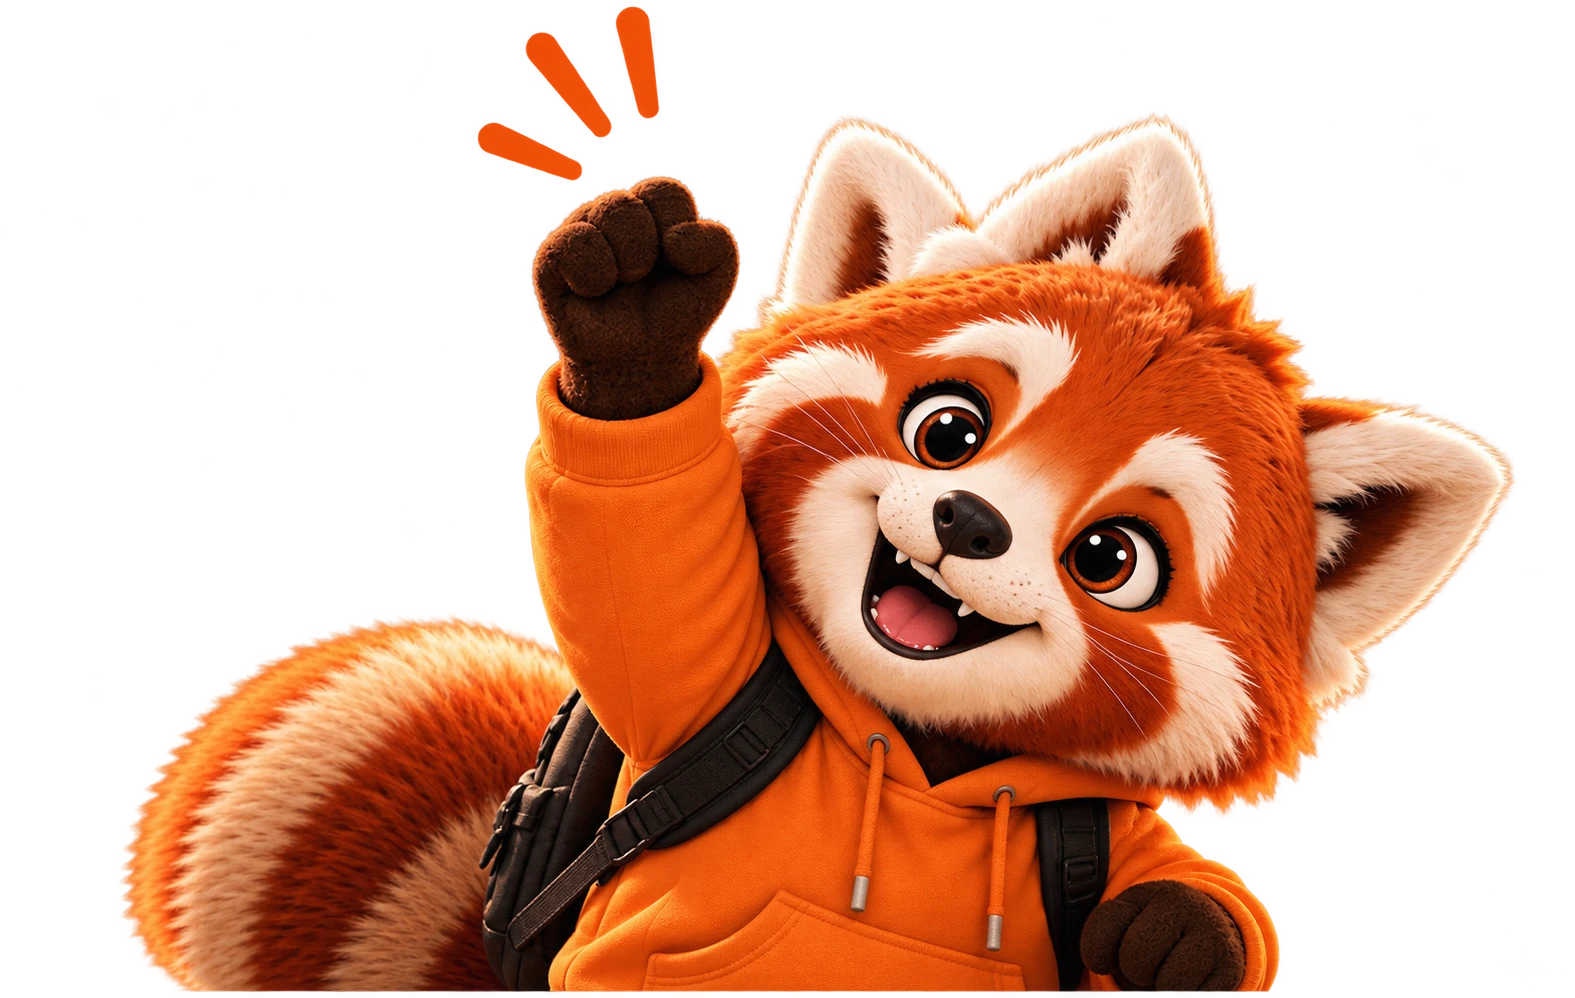
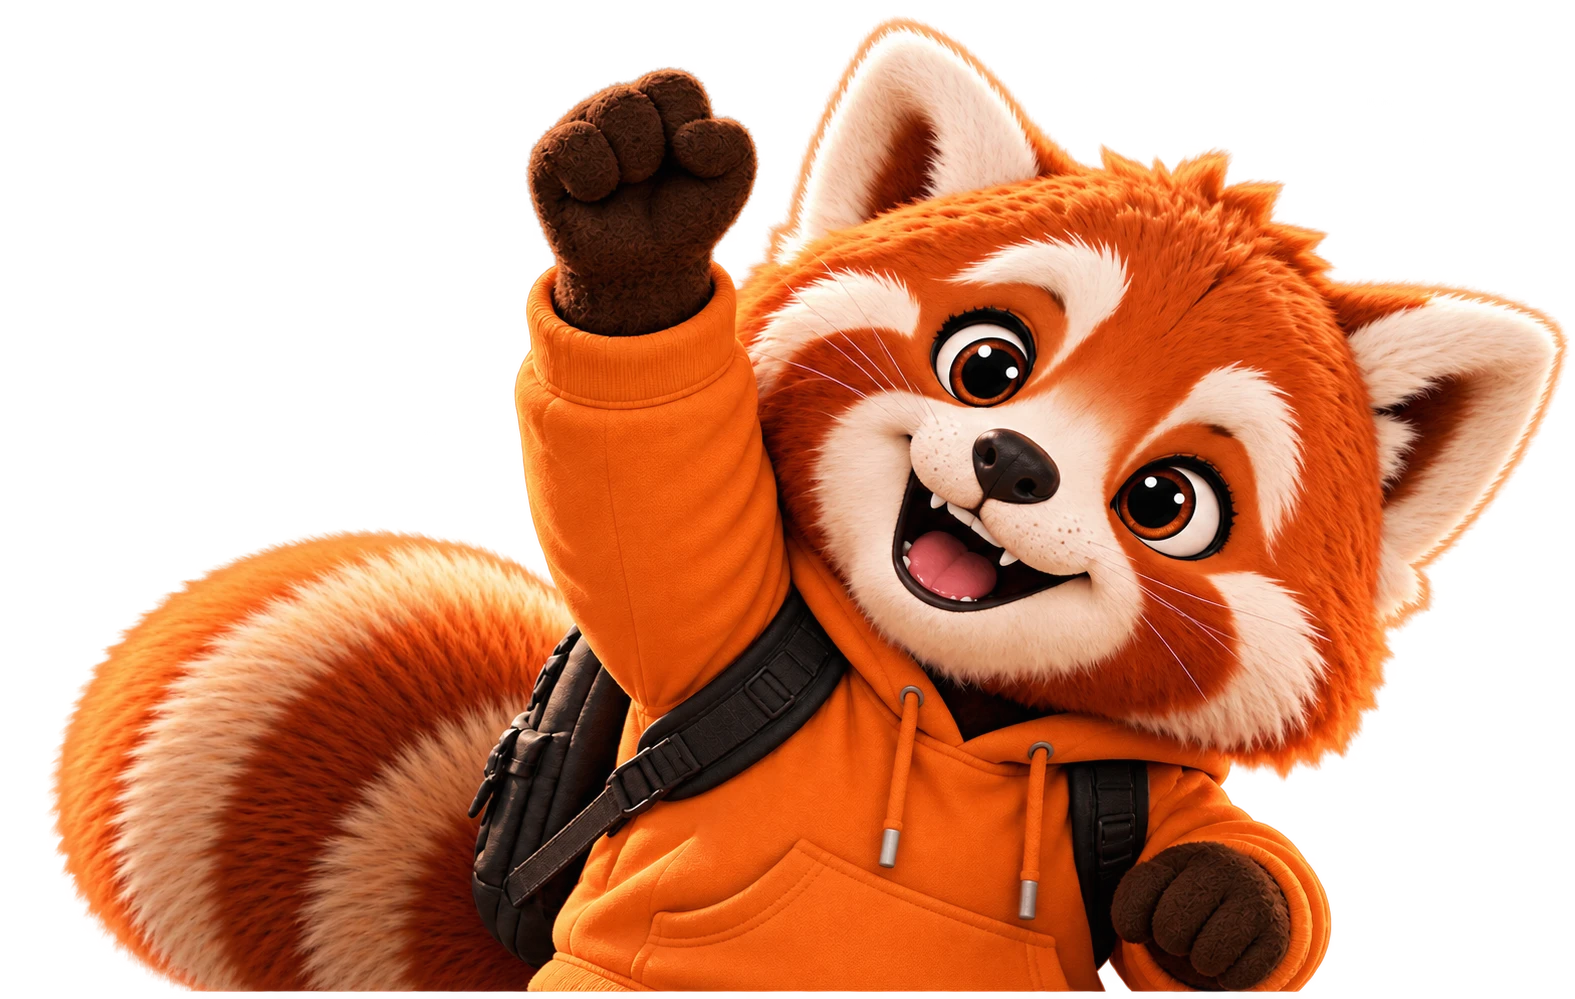
Replace the TOBI render in «Статистика»
assets/tobi/tobi_statistics.webp replaced with the product owner's new
transparent render (1575x999), unmodified; registry height updated.
Placement and the rest of the Statistics screen unchanged.

Claude-Session: https://claude.ai/code/session_01KnKpapXsJupxF9XbuZYwNS

diff --git a/features/tobi/tobiAssets.ts b/features/tobi/tobiAssets.ts
@@ -60,12 +60,12 @@ export const tobiRenders: Partial<Record<TobiState, TobiRender>> = {
     height: 1002,
     placement: { scale: 1 / (0.84 - 0.027), offsetY: 1 - 0.84 },
   },
-  // Product owner's render, unmodified (WebP with transparency): raised fist with orange strokes.
-  // 86% stays above the panel: strokes, fist, face, backpack straps and the hoodie down to the pocket visible.
+  // Product owner's render, unmodified (WebP with transparency): raised fist.
+  // 86% stays above the panel: fist, face, backpack straps and the hoodie down to the pocket visible.
   tobi_statistics: {
     source: require('@/assets/tobi/tobi_statistics.webp'),
     width: 1575,
-    height: 998,
+    height: 999,
     placement: { scale: 1 / 0.86, offsetY: 1 - 0.86 },
   },
   // Product owner's render, unmodified (WebP with transparency): full-height TOBI with pencil and notebook.

diff --git a/docs/progress.md b/docs/progress.md
@@ -46,7 +46,7 @@
 - ✅ `tobi_wish_create` — `assets/tobi/tobi_wish_create.webp` (оригинал владельца, WebP с прозрачностью, 1426×1103), шаг онбординга «желание» и «Новое желание».
 - ✅ `tobi_tasks` — `assets/tobi/tobi_tasks.webp` (оригинал владельца, WebP с прозрачностью, 1488×1057), шапка «Задачи».
 - ✅ `tobi_rewards` — `assets/tobi/tobi_rewards.webp` (оригинал владельца, WebP с прозрачностью, 1569×1002), шапка «Награды».
-- ✅ `tobi_statistics` — `assets/tobi/tobi_statistics.webp` (оригинал владельца, WebP с прозрачностью, 1575×998), шапка «Статистика».
+- ✅ `tobi_statistics` — `assets/tobi/tobi_statistics.webp` (оригинал владельца, WebP с прозрачностью, 1575×999), шапка «Статистика».
 - ✅ `tobi_reward_edit` — `assets/tobi/tobi_reward_edit.webp` (оригинал владельца, WebP с прозрачностью, 1024×1536), редактирование цели и желания.
 - ⏳ Ждут прозрачных PNG/WebP: `tobi_idle`,
   `tobi_habit_complete`, `tobi_reward` (экран награды и реакция после выполнения).
